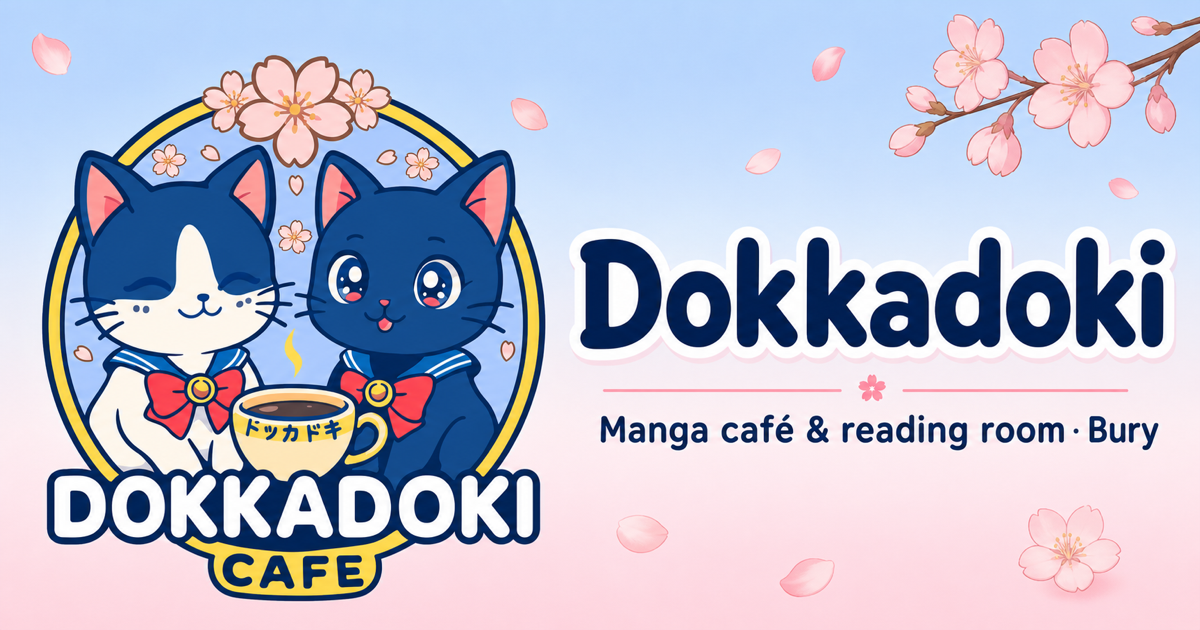
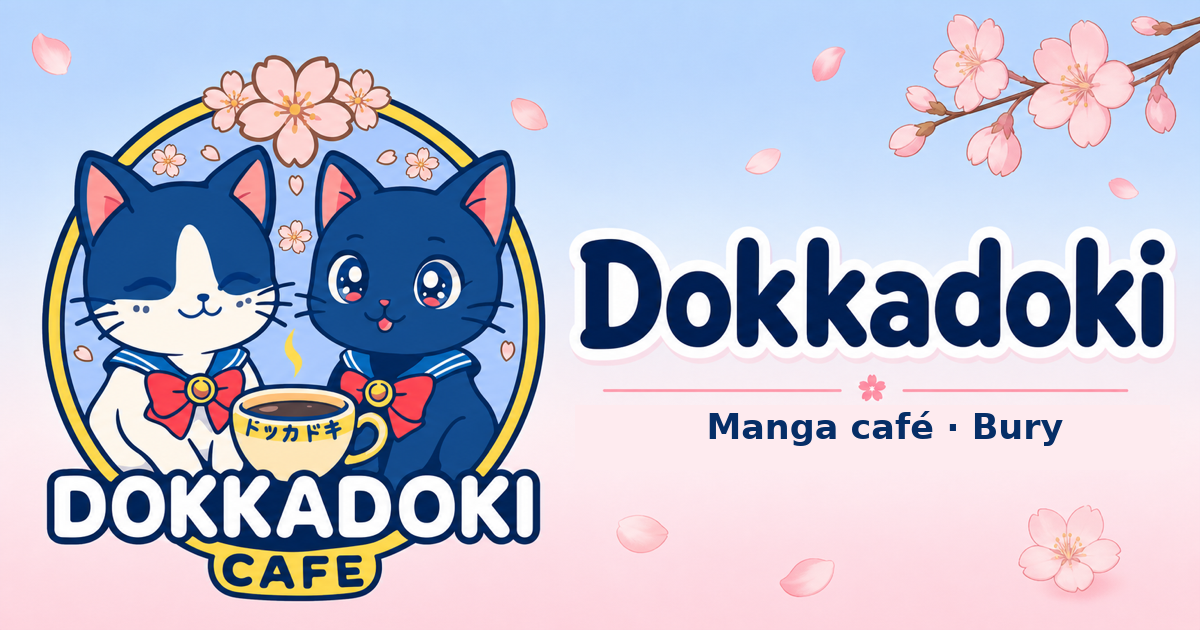
Refresh manga cafe launch content

Changed region(s): [[0.4933, 0.6333, 0.9867, 0.7238]]

diff --git a/layouts/home.html b/layouts/home.html
@@ -2,12 +2,13 @@
 <section class="hero wrap">
   <p class="kana">ようこそ</p>
   <h1 class="hero-logo-wrap"><img class="hero-logo" src="{{ "logo.png" | relURL }}" alt="Dokkadoki Cafe" width="768" height="837" /></h1>
-  <p class="tagline">A manga café &amp; reading room - a cosy little Japanese escape, coming soon to The Millgate, Bury.</p>
+  <p class="tagline">A manga café - a cosy little Japanese escape, coming soon to The Millgate, Bury.</p>
 
   <div class="pills">
-    <span class="pill">☕ Proper coffee</span>
+    <span class="pill">☕ Ueshima Coffee</span>
     <span class="pill">📚 1,000+ manga</span>
-    <span class="pill">🌸 Read in store</span>
+    <span class="pill">🍜 Self-serve ramen cookers</span>
+    <span class="pill">🥪 Japanese snacks</span>
   </div>
 
   <form class="signup" id="signup" novalidate>
@@ -27,15 +28,15 @@
 <section class="block wrap">
   <p class="eyebrow">What is Dokkadoki?</p>
   <h2 class="section-title">Somewhere to slow down<br />and get lost in a story</h2>
-  <p class="lead">Part café, part reading room, all comfort. Grab a drink, pull a volume off the wall, and settle into a cosy corner of The Millgate.</p>
+  <p class="lead">Part manga café, part Japanese convenience store, all comfort. Grab a coffee, cook up instant ramen with toppings on the go, and settle into a cosy corner of The Millgate.</p>
 
   <div class="space">
     <div>
       <ul>
-        <li><span class="tick">☕</span> <span>Speciality coffee, Japanese sodas, matcha and sweet snacks</span></li>
-        <li><span class="tick">📚</span> <span>A wall of 1,000+ manga (and growing) to read in store - <a class="inline-link" href="{{ site.Params.libibURL }}" target="_blank" rel="noopener">browse the catalogue</a></span></li>
-        <li><span class="tick">🛋</span> <span>Snug bench seating to curl up with a book, drink in hand</span></li>
-        <li><span class="tick">🌸</span> <span>A warm, kawaii-tinged space celebrating Japanese stories and everyday charm</span></li>
+        <li><span class="tick">☕</span> <span>Ueshima Coffee, Japanese sodas, matcha and sweet treats</span></li>
+        <li><span class="tick">📚</span> <span>A wall of 1,000+ manga (and growing) to read in store</span></li>
+        <li><span class="tick">🍜</span> <span>Self-serve instant ramen cookers with optional toppings as you make your own</span></li>
+        <li><span class="tick">🥪</span> <span>Sandwiches, onigiri, and Japanese convenience-store-style snacks ready to grab</span></li>
       </ul>
     </div>
     <div class="art" aria-hidden="true">

diff --git a/layouts/_default/baseof.html b/layouts/_default/baseof.html
@@ -10,8 +10,8 @@
 
 <!-- Open Graph / social -->
 <meta property="og:type" content="{{ if .IsPage }}article{{ else }}website{{ end }}" />
-<meta property="og:title" content="{{ if .IsHome }}Dokkadoki - Manga Café &amp; Reading Room{{ else }}{{ .Title }}{{ end }}" />
-<meta property="og:description" content="{{ with .Description }}{{ . }}{{ else }}A manga café and reading room coming soon to The Millgate, Bury. Read, sip, escape.{{ end }}" />
+<meta property="og:title" content="{{ if .IsHome }}Dokkadoki - Manga Café{{ else }}{{ .Title }}{{ end }}" />
+<meta property="og:description" content="{{ with .Description }}{{ . }}{{ else }}A manga café coming soon to The Millgate, Bury — manga, Ueshima Coffee and Japanese convenience-store-style snacks.{{ end }}" />
 <meta property="og:url" content="{{ .Permalink }}" />
 <meta property="og:image" content="{{ "social-card.png" | absURL }}" />
 <meta property="og:image:width" content="1200" />

diff --git a/content/visit.md b/content/visit.md
@@ -3,7 +3,7 @@ title: "Plan your visit 🌸"
 description: "Everything we can share so far about visiting Dokkadoki at The Millgate, Bury."
 ---
 
-Dokkadoki is a manga café and reading room **coming soon to The Millgate, Bury**: a cosy little Japanese escape where you can settle in with a good read, enjoy a drink, and discover something new.
+Dokkadoki is a manga café **coming soon to The Millgate, Bury**: a cosy corner featuring Ueshima Coffee and self-serve Japanese convenience-store-style food including instant ramen cookers with optional toppings, plus sandwiches, onigiri and Japanese treats - where you can settle in with a good read and discover something new.
 
 ## Before you set off
 
@@ -11,10 +11,11 @@ We are still getting the space ready, so our opening date and regular hours have
 
 ## What to expect
 
-- A welcoming place to read manga, relax and spend time with fellow fans
+- A welcoming manga café with 1,000+ titles to browse
+- Ueshima Coffee and Japanese treats
+- Self-serve instant ramen cookers with optional toppings, plus sandwiches and onigiri
 - A growing manga collection; browse the current catalogue on [Libib](https://www.libib.com/u/dokkadoki)
 - Manga and anime-inspired events as plans take shape
-- A café menu, with more details to come
 - A small online [eBay shop](https://www.ebay.co.uk/usr/dokkadoki) for manga and related finds
 
 ## Help shape Dokkadoki

diff --git a/content/blog/opening-soon.md b/content/blog/opening-soon.md
@@ -1,0 +1,30 @@
+---
+title: "Opening Soon — The Millgate, Bury 🌸"
+slug: opening-soon
+date: 2026-08-23
+description: "We hope to open soon at The Millgate, and will confirm an opening date once finalised. Get ready for Ueshima Coffee, 1,000+ manga, and self-serve Japanese convenience-store-style snacks."
+---
+
+The team at Dokkadoki hopes to open soon at The Millgate in Bury! We'll confirm our opening date once finalised — stay tuned for updates on when we'll be ready.
+
+While we get the space ready, here's what you can look forward to:
+
+## Ueshima Coffee ☕
+
+Quality coffee from Ueshima, with a selection of Japanese sodas, matcha and sweet treats.
+
+## 1,000+ Manga 📚
+
+A growing collection of manga to browse and read in store. Our catalogue is already up on [Libib](https://www.libib.com/u/dokkadoki) so you can see what's available before we open.
+
+## Self-Serve Snacks 🍜🥪
+
+Get a quick bite at our Japanese convenience-store-style snack station, including:
+
+- Instant ramen cookers with optional toppings—make your own!
+- Sandwiches and onigiri
+- Little Japanese treats perfect for a café visit
+
+---
+
+**Coming soon to The Millgate, Bury.** Join our [newsletter](/) for the latest news, manga requests and event updates. Or head over to our [Discord](https://discord.gg/zjutK2TTHv) to chat with other fans. 🌸

diff --git a/content/menupreview.md b/content/menupreview.md
@@ -3,11 +3,11 @@ title: "Menu preview ☕"
 description: "A first look at the café side of Dokkadoki — with final menu details still to come."
 ---
 
-A proper read deserves a proper break. We are planning the café side of Dokkadoki alongside the reading room, with a cosy menu designed for lingering over a chapter or catching up with friends.
+A proper read deserves a proper break. We are planning the café side of Dokkadoki around Ueshima Coffee and Japanese convenience-store-style favourites: self-serve instant ramen cookers with optional toppings, sandwiches, onigiri and small Japanese treats for a relaxed manga café visit.
 
 ## What we are exploring
 
-Our final menu is still being developed, but we are looking forward to sharing a selection of drinks and treats suited to a relaxed manga café visit. As plans come together, we will share more about the range, ingredients and availability.
+Our final menu is still being developed. As plans come together, we will share more about our Ueshima Coffee range, self-serve snacks, optional toppings and what will be available.
 
 ## Dietary needs and allergens
 

diff --git a/content/blog/exciting-news-bury-cafe.md b/content/blog/exciting-news-bury-cafe.md
@@ -4,6 +4,7 @@ slug: exciting-news-bury-cafe
 date: 2025-09-11
 lastmod: 2025-10-27
 description: "Plans are underway for a cosy manga café and reading library in Bury."
+draft: true
 ---
 
 That’s right! We’re in the early stages, but plans are underway for a cozy space that will include a **LIBRARY packed with manga, light novels, and more!** 📚✨

diff --git a/content/blog/new-payment-methods.md b/content/blog/new-payment-methods.md
@@ -3,6 +3,7 @@ title: "New Payment Methods"
 slug: new-payment-methods
 date: 2025-10-27
 description: "PayPal, Klarna and Clearpay give you more ways to pay when shopping with Dokkadoki."
+draft: true
 ---
 
 We’re thrilled to announce that you can now pay using **PayPal**, as well as enjoy flexible payment options with **Klarna** and **Clearpay**! 🎁

diff --git a/content/blog/hello-from-dokkadoki.md b/content/blog/hello-from-dokkadoki.md
@@ -2,6 +2,7 @@
 title: "Hello from Dokkadoki 🌸"
 date: 2026-07-10
 description: "Our online shop has a new home, our café is on its way, and there's a little game coming too."
+draft: true
 ---
 
 Welcome to the very first post on the Dokkadoki blog!
